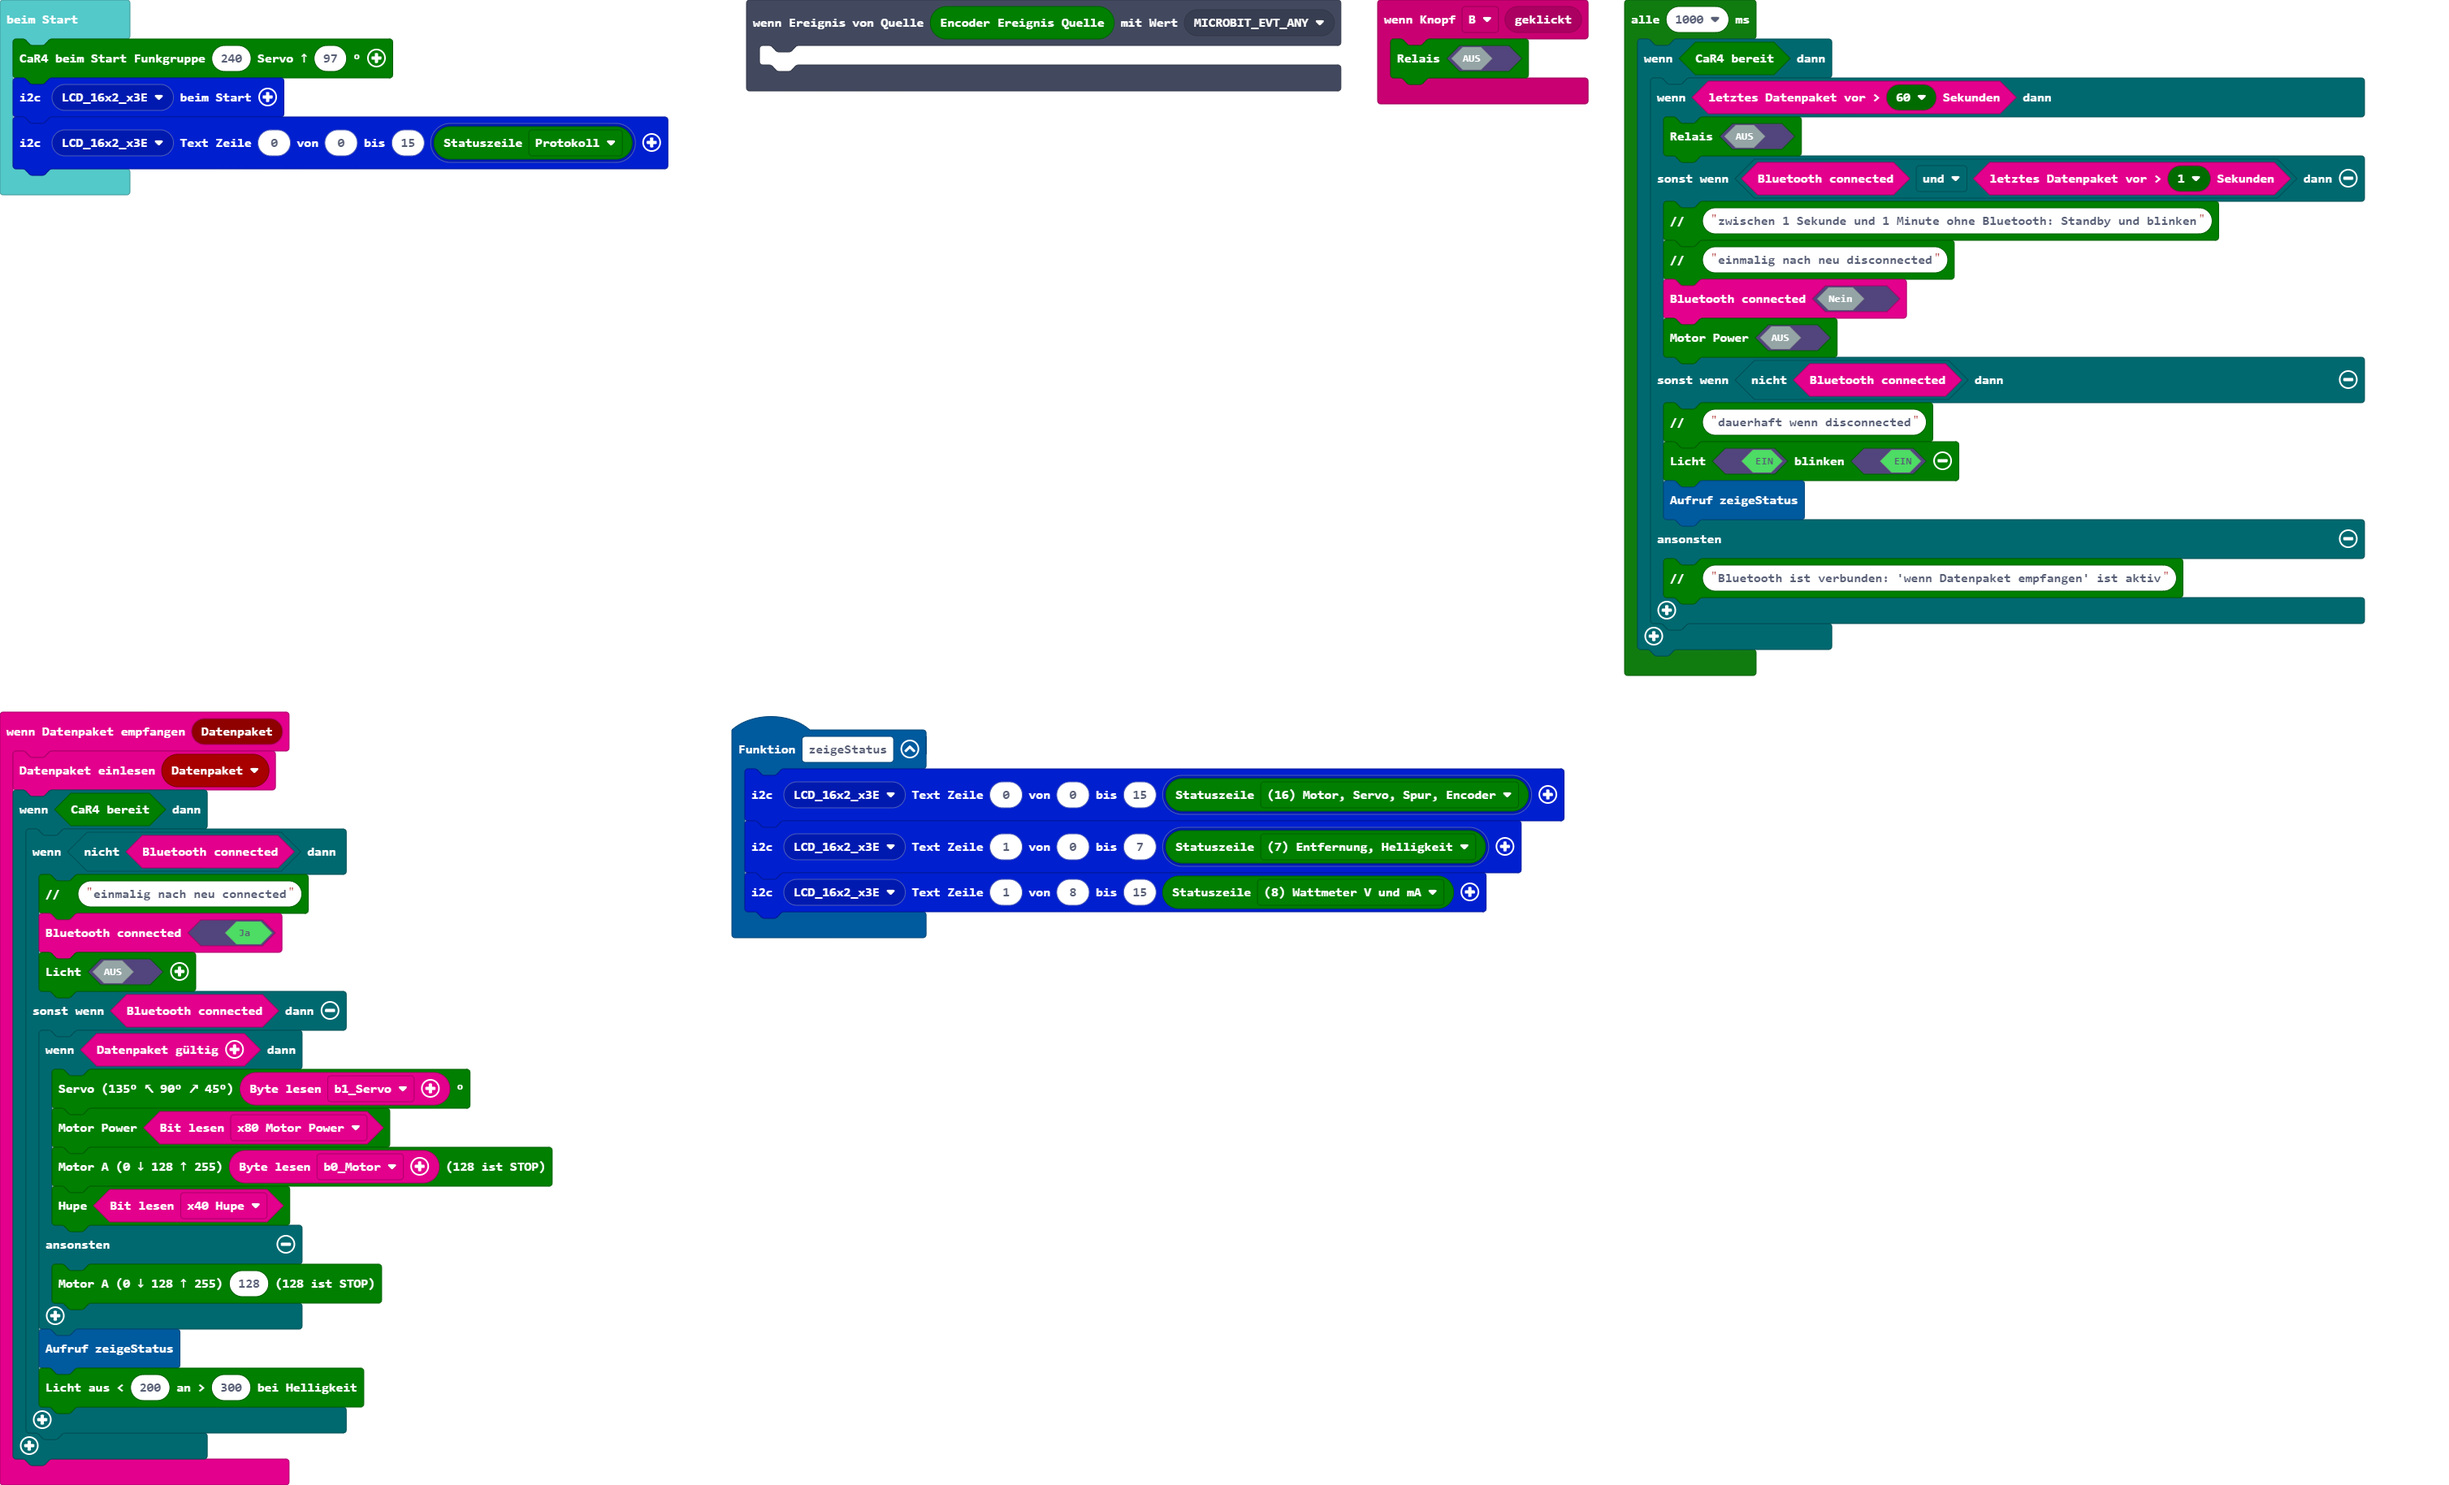
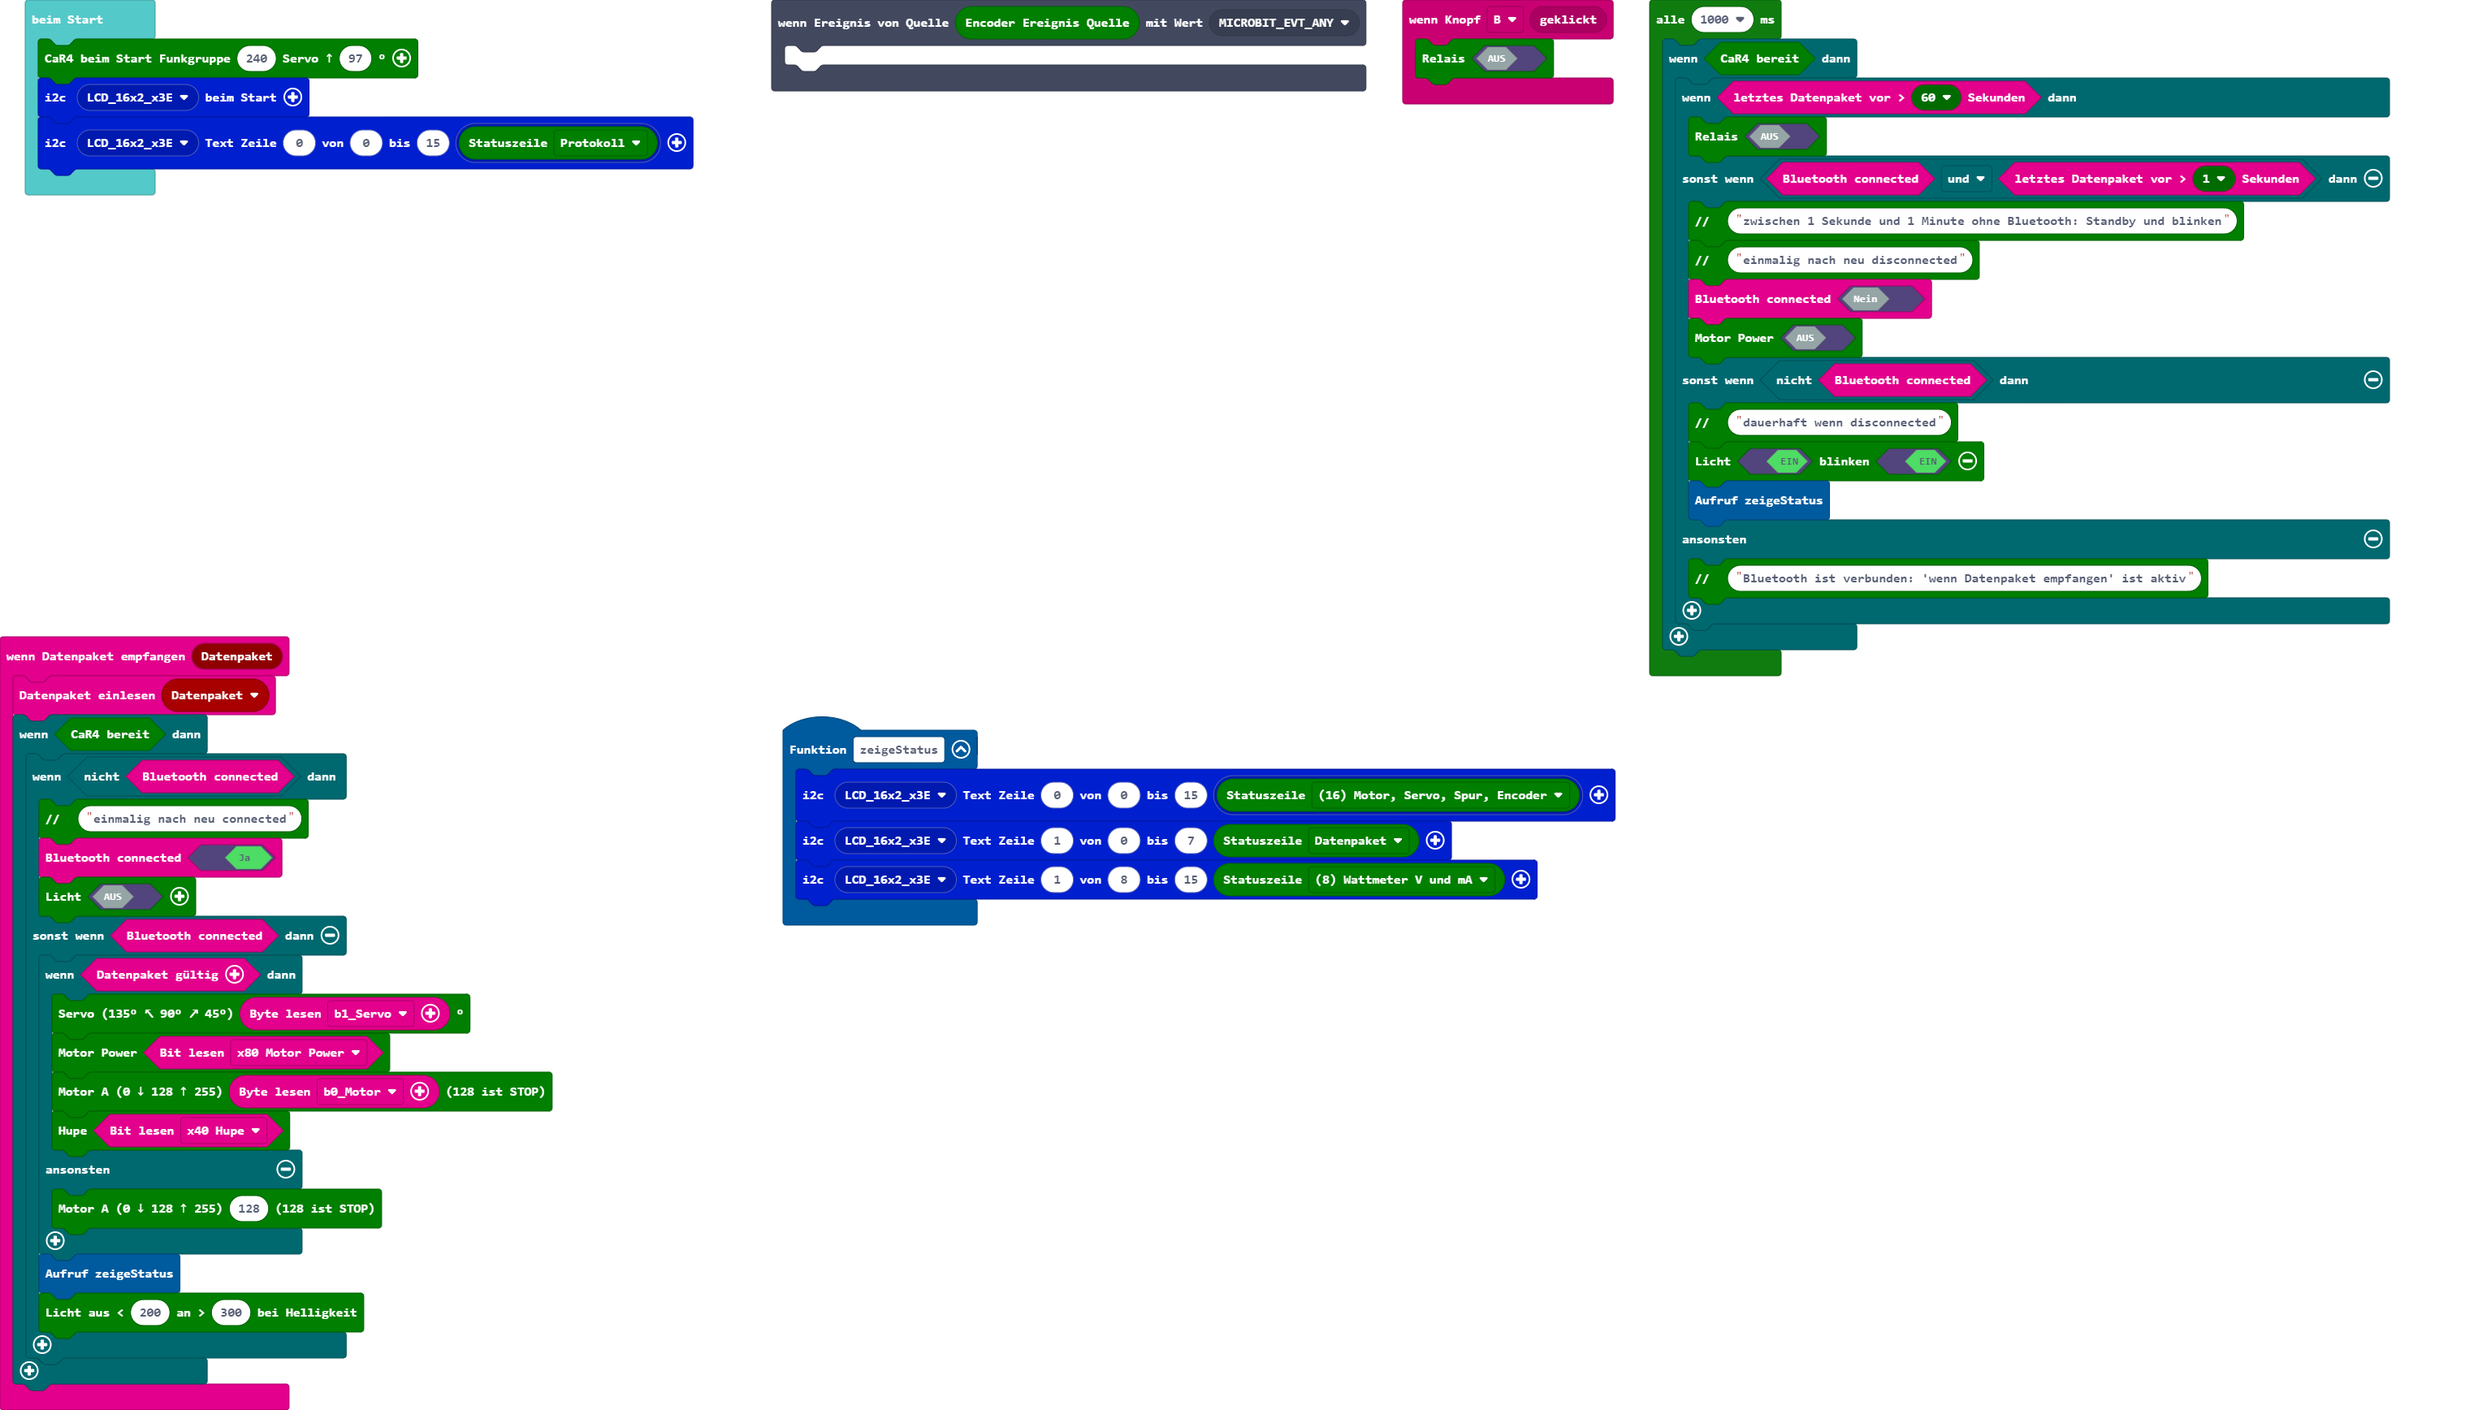
Aktualisiere main.blocks, main.ts

diff --git a/main.ts b/main.ts
@@ -1,6 +1,6 @@
 function zeigeStatus () {
     lcd16x2rgb.writeText(lcd16x2rgb.lcd16x2_eADDR(lcd16x2rgb.eADDR_LCD.LCD_16x2_x3E), 0, 0, 15, lcd16x2rgb.lcd16x2_text(car4.statuszeile1(car4.eStatuszeile.a)))
-    lcd16x2rgb.writeText(lcd16x2rgb.lcd16x2_eADDR(lcd16x2rgb.eADDR_LCD.LCD_16x2_x3E), 1, 0, 7, lcd16x2rgb.lcd16x2_text(car4.statuszeile1(car4.eStatuszeile.b)))
+    lcd16x2rgb.writeText(lcd16x2rgb.lcd16x2_eADDR(lcd16x2rgb.eADDR_LCD.LCD_16x2_x3E), 1, 0, 7, car4.statuszeile1(car4.eStatuszeile.buffer))
     lcd16x2rgb.writeText(lcd16x2rgb.lcd16x2_eADDR(lcd16x2rgb.eADDR_LCD.LCD_16x2_x3E), 1, 8, 15, car4.statuszeile1(car4.eStatuszeile.c))
 }
 input.onButtonEvent(Button.B, input.buttonEventClick(), function () {
@@ -16,9 +16,9 @@ radio.onReceivedBuffer(function (Datenpaket) {
         } else if (car4.isConnected()) {
             if (car4.receivedBuffer_Contains()) {
                 car4.servo(car4.receivedBuffer_getUint8(car4.eBufferOffset.b1_Servo))
-                car4.motorON(car4.receivedBuffer_getBit(car4.eBit.x80_MotorPower))
+                car4.motorON(car4.receivedBuffer_getBit(car4.eBufferBit.x80_MotorPower))
                 car4.motorA255(car4.receivedBuffer_getUint8(car4.eBufferOffset.b0_Motor))
-                car4.buzzer(car4.receivedBuffer_getBit(car4.eBit.x40_Hupe))
+                car4.buzzer(car4.receivedBuffer_getBit(car4.eBufferBit.x40_Hupe))
             } else {
                 car4.motorA255(128)
             }
